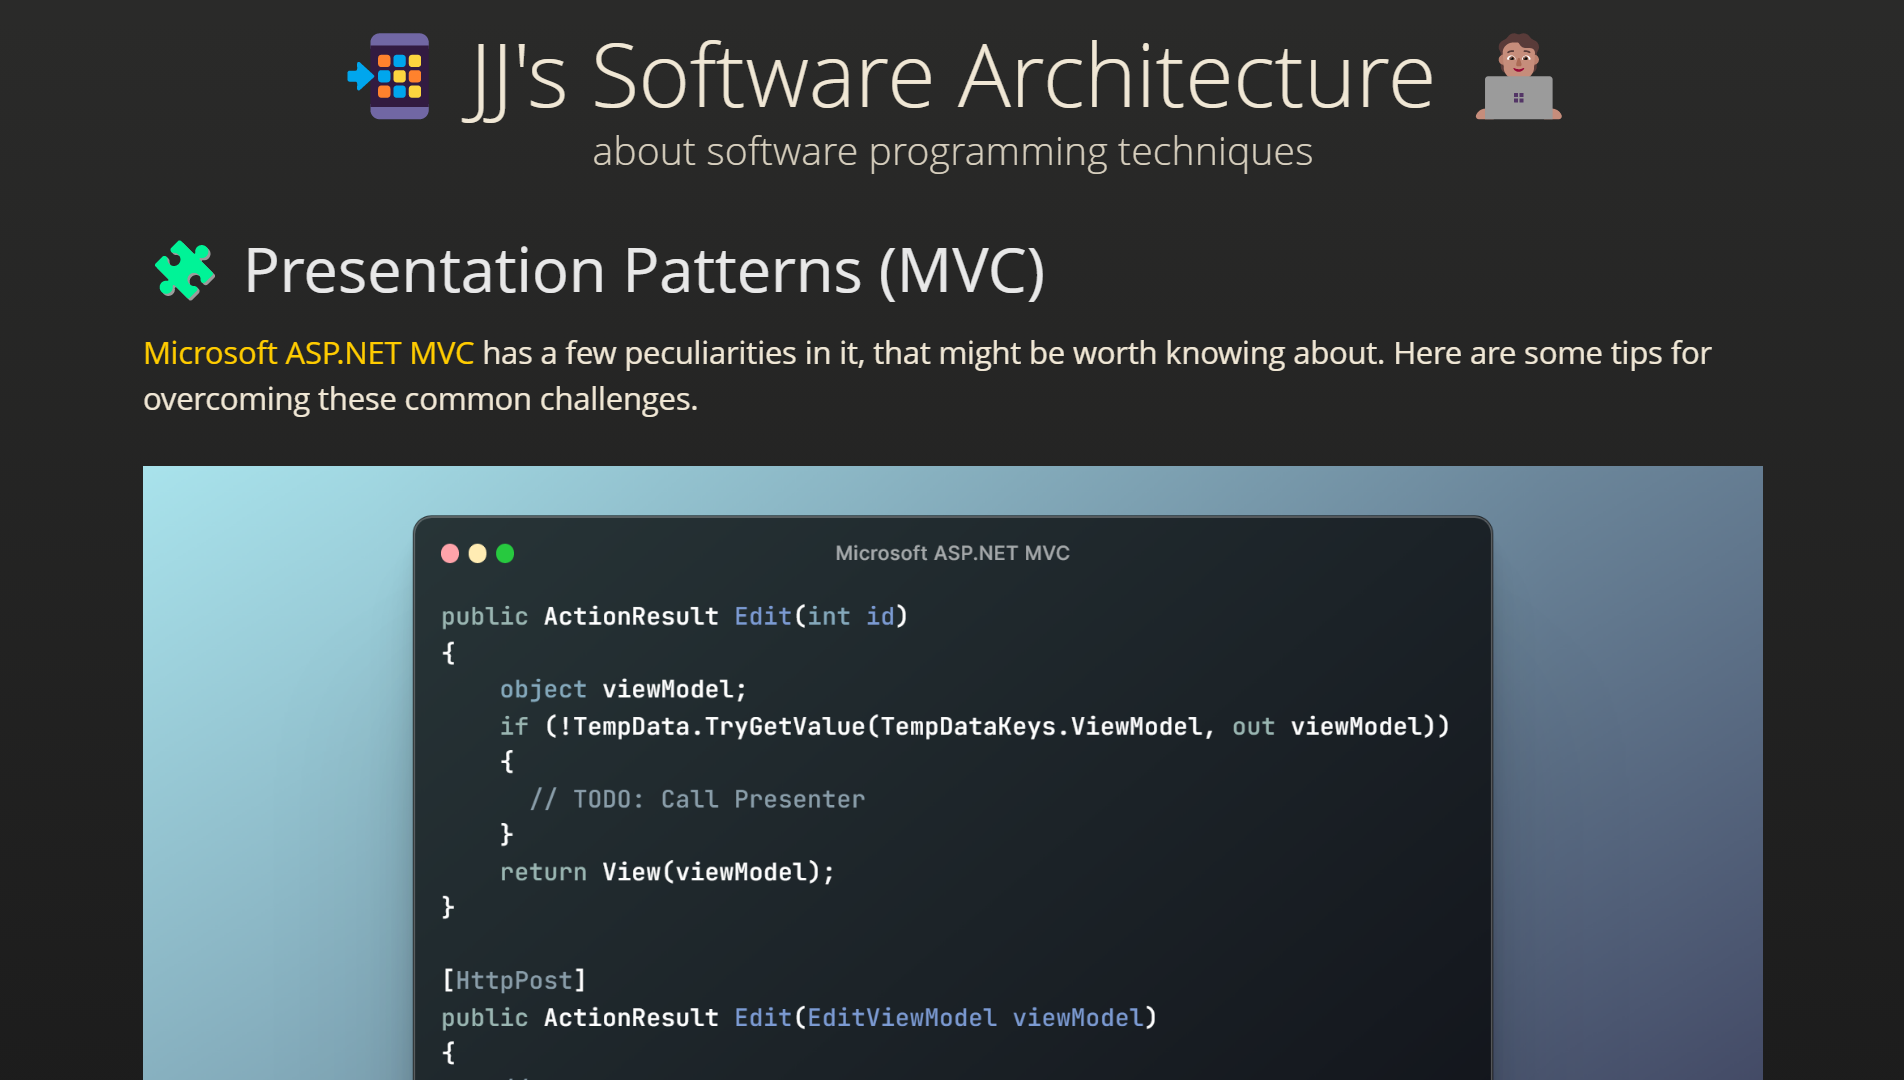
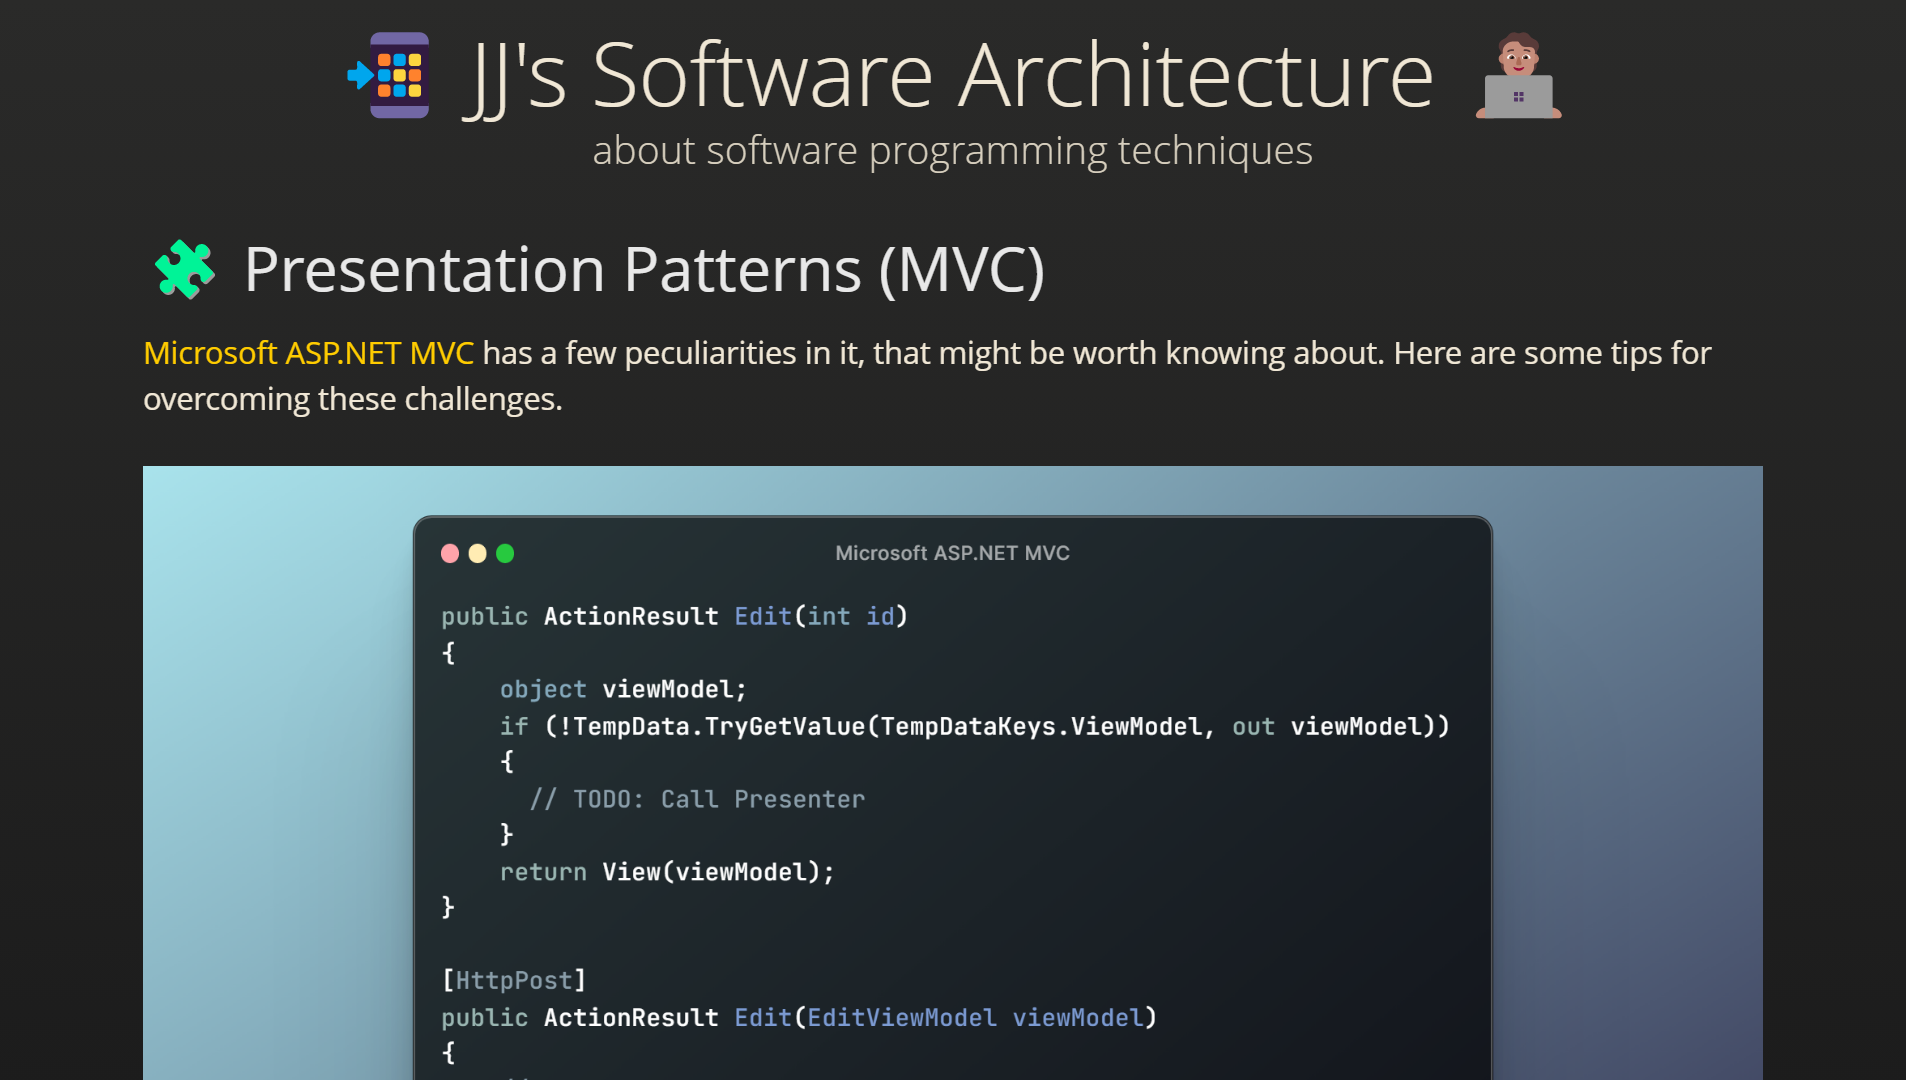
🎵 Patterns: Presentation (MVC): Changing catch phrases in intro, meta image and meta description.

diff --git a/patterns/presentation-mvc.md b/patterns/presentation-mvc.md
@@ -1,6 +1,6 @@
 ---
 title: "🧩 Presentation Patterns (MVC)"
-description: "Microsoft ASP.NET MVC has a few peculiarities in it, that might be worth knowing about. Here are some tips for overcoming these common challenges."
+description: "Microsoft ASP.NET MVC has a few peculiarities in it, that might be worth knowing about. Here are some tips for overcoming these challenges."
 image: "/images/patterns-presentation-mvc-page.png"
 ---
 
@@ -11,7 +11,7 @@ image: "/images/patterns-presentation-mvc-page.png"
 
 [back](README.md)
 
-[Microsoft ASP.NET MVC](../api/table.md#mvc) has a few peculiarities in it, that might be worth knowing about. Here are some tips for overcoming these common challenges.
+[Microsoft ASP.NET MVC](../api/table.md#mvc) has a few peculiarities in it, that might be worth knowing about. Here are some tips for overcoming these challenges.
 
 <img src="../images/mvc-code.png" width="800" />
 
